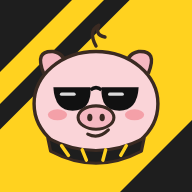
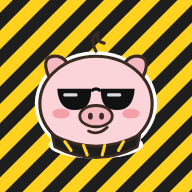
アイコンを目立つ形に：全面に黄黒のしま、ぶーちんを大きく白いふち付きで
Claude-Session: https://claude.ai/code/session_01LWmVhPti1NRfgtGKPvJr6X

diff --git a/index.html b/index.html
@@ -1,6 +1,6 @@
 <!doctype html><html lang="ja"><head><meta charset="utf-8"><meta name="viewport" content="width=device-width,initial-scale=1,viewport-fit=cover">
 <title>BOOTIN</title><meta name="theme-color" content="#F6C915"><link rel="manifest" href="manifest.webmanifest?v=2">
-<link rel="icon" href="icon2-192.png"><link rel="apple-touch-icon" href="icon2-192.png"><meta name="apple-mobile-web-app-capable" content="yes"><meta name="mobile-web-app-capable" content="yes"><meta name="apple-mobile-web-app-title" content="BOOTIN">
+<link rel="icon" href="icon3-192.png"><link rel="apple-touch-icon" href="icon3-192.png"><meta name="apple-mobile-web-app-capable" content="yes"><meta name="mobile-web-app-capable" content="yes"><meta name="apple-mobile-web-app-title" content="BOOTIN">
 <link rel="preconnect" href="https://fonts.googleapis.com"><link rel="stylesheet" href="https://fonts.googleapis.com/css2?family=BIZ+UDPGothic:wght@400;700&family=Zen+Maru+Gothic:wght@500;700;900&display=swap"><style>:root{padding-top:env(safe-area-inset-top,0px);padding-bottom:env(safe-area-inset-bottom,0px)}[hidden]{display:none!important}img{max-width:100%}</style></head><body><style>/* 配置：上に日付と時計の大きな札、真ん中に3×3の入口、右下に「さっとメモ」。黄色と黒の手帳 */
 :root{
   --paper:#FBF8EE; --card:#FFFFFF; --ink:#1E1B14; --sub:#6B6450; --line:#E6DFC8; --soft:#F3EEDC;

diff --git a/sw.js b/sw.js
@@ -1,5 +1,5 @@
 const C='bootin-1795709554';
-self.addEventListener('install',e=>{e.waitUntil(caches.open(C).then(c=>c.addAll(['./','index.html','manifest.webmanifest','icon2-192.png','icon2-512.png'])));self.skipWaiting();});
+self.addEventListener('install',e=>{e.waitUntil(caches.open(C).then(c=>c.addAll(['./','index.html','manifest.webmanifest','icon3-192.png','icon3-512.png'])));self.skipWaiting();});
 self.addEventListener('activate',e=>{e.waitUntil(caches.keys().then(ks=>Promise.all(ks.filter(k=>k!==C).map(k=>caches.delete(k)))));self.clients.claim();});
 self.addEventListener('fetch',e=>{const u=new URL(e.request.url);if(e.request.method!=='GET'||u.origin!==location.origin)return;
 e.respondWith(fetch(e.request).then(r=>{const cp=r.clone();caches.open(C).then(c=>c.put(e.request,cp));return r;}).catch(()=>caches.match(e.request).then(r=>r||caches.match('index.html'))));});

diff --git a/src/build.py b/src/build.py
@@ -11,19 +11,19 @@ open('bootin-art.html','w').write('<title>BOOTIN 試作版</title>\n<meta name="
 os.makedirs('pwa',exist_ok=True)
 head=f'''<!doctype html><html lang="ja"><head><meta charset="utf-8"><meta name="viewport" content="width=device-width,initial-scale=1,viewport-fit=cover">
 <title>BOOTIN</title><meta name="theme-color" content="#F6C915"><link rel="manifest" href="manifest.webmanifest?v=2">
-<link rel="icon" href="icon2-192.png"><link rel="apple-touch-icon" href="icon2-192.png"><meta name="apple-mobile-web-app-capable" content="yes"><meta name="mobile-web-app-capable" content="yes"><meta name="apple-mobile-web-app-title" content="BOOTIN">
+<link rel="icon" href="icon3-192.png"><link rel="apple-touch-icon" href="icon3-192.png"><meta name="apple-mobile-web-app-capable" content="yes"><meta name="mobile-web-app-capable" content="yes"><meta name="apple-mobile-web-app-title" content="BOOTIN">
 {fonts}<style>:root{{padding-top:env(safe-area-inset-top,0px);padding-bottom:env(safe-area-inset-bottom,0px)}}[hidden]{{display:none!important}}img{{max-width:100%}}</style></head><body>'''
 open('pwa/index.html','w').write(head+body+'</body></html>')
 json.dump({"name":"BOOTIN","short_name":"BOOTIN","start_url":"./?app=2","scope":"./","display":"standalone","background_color":"#FBF8EE","theme_color":"#F6C915","lang":"ja",
- "id":"./?app=2","icons":[{"src":"icon2-192.png","sizes":"192x192","type":"image/png","purpose":"any"},{"src":"icon2-512.png","sizes":"512x512","type":"image/png","purpose":"any"},{"src":"icon2-512.png","sizes":"512x512","type":"image/png","purpose":"maskable"}]},open('pwa/manifest.webmanifest','w'),ensure_ascii=False)
+ "id":"./?app=2","icons":[{"src":"icon3-192.png","sizes":"192x192","type":"image/png","purpose":"any"},{"src":"icon3-512.png","sizes":"512x512","type":"image/png","purpose":"any"},{"src":"icon3-512.png","sizes":"512x512","type":"image/png","purpose":"maskable"}]},open('pwa/manifest.webmanifest','w'),ensure_ascii=False)
 ver=str(int(os.path.getmtime('app.js')))
 open('pwa/sw.js','w').write(f"""const C='bootin-{ver}';
-self.addEventListener('install',e=>{{e.waitUntil(caches.open(C).then(c=>c.addAll(['./','index.html','manifest.webmanifest','icon2-192.png','icon2-512.png'])));self.skipWaiting();}});
+self.addEventListener('install',e=>{{e.waitUntil(caches.open(C).then(c=>c.addAll(['./','index.html','manifest.webmanifest','icon3-192.png','icon3-512.png'])));self.skipWaiting();}});
 self.addEventListener('activate',e=>{{e.waitUntil(caches.keys().then(ks=>Promise.all(ks.filter(k=>k!==C).map(k=>caches.delete(k)))));self.clients.claim();}});
 self.addEventListener('fetch',e=>{{const u=new URL(e.request.url);if(e.request.method!=='GET'||u.origin!==location.origin)return;
 e.respondWith(fetch(e.request).then(r=>{{const cp=r.clone();caches.open(C).then(c=>c.put(e.request,cp));return r;}}).catch(()=>caches.match(e.request).then(r=>r||caches.match('index.html'))));}});
 """)
-for f in ['icon-192.png','icon-512.png']: shutil.copy(f,'pwa/'+f.replace('icon-','icon2-'))
+for f in ['icon-192.png','icon-512.png']: shutil.copy(f,'pwa/'+f.replace('icon-','icon3-'))
 for f in ['icon-192.png','icon-512.png']:
     if os.path.exists('pwa/'+f): os.remove('pwa/'+f)
 print(os.path.getsize('bootin-art.html'))
